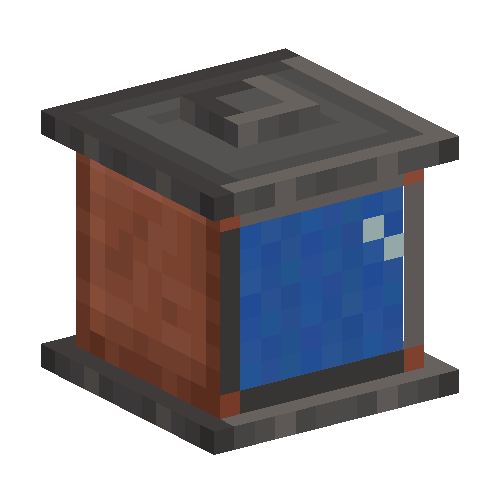
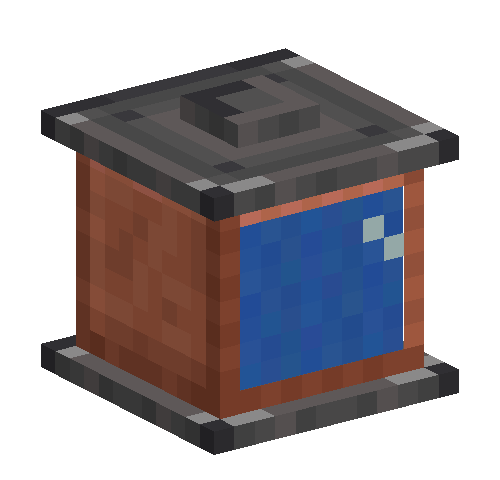
Use copper window framing and industrial iron plate details

diff --git a/docs/fluid-canister.md b/docs/fluid-canister.md
@@ -4,7 +4,7 @@
 
 主体采用四个简单长方体：铜色罐身、底沿、上盖和密封盖。正面保留一像素边框，框内全部为玻璃观察窗（宽 8、高 7 模型单位，X 4–12、Y 2–9），不再使用液滴轮廓。同一行相邻面合并，避免逐像素堆砌方块。模型边界保持为 X/Z 2–14、Y 0–12，沿用原来的 12×12 包裹尺寸和原生吊索。容量仍为 4000 mB，通过流体打包机卸液。
 
-贴图为原创的 16×16 像素图。使用 pixel-art 技能逐像素绘制，参考本地 Create 6.0.10-280 的铜机壳与流体储罐贴图，采用完整八级铜色、五级中性框架色，以及窗内暗色和玻璃高光，共十五色。重画铜面像素簇、包边接缝和磨损明暗，避免大块平涂。UV 保持一个模型单位对应一个纹理像素，不使用渐变或抗锯齿。
+贴图为原创的 16×16 像素图。使用 pixel-art 技能逐像素绘制，参考本地 Create 6.0.10-280 的铜机壳、流体储罐与工业铁块贴图，采用八级铜色、六级工业铁灰色，以及窗内暗色和玻璃高光，共十六色。观察窗边框完全使用铜色；上下端板参考工业铁块的折边接缝、内凹加强纹和四角铆接，重新绘制像素布局。铜面保留像素簇和磨损明暗。UV 保持一个模型单位对应一个纹理像素，不使用渐变或抗锯齿。
 
 观察窗采用几何开孔、内侧暗色背板和像素玻璃反光。透明部分不绘制面，玻璃没有大块半透明覆盖层，因此适配原生包裹的 solid、cutout 和 Flywheel 实例化路径，不需要更改全局渲染层。
 
@@ -13,5 +13,7 @@
 物品覆盖模型负责手持、物品栏、传送带及打包机显示；客户端限定的六个小型 Mixin 仅适配原生掉落包裹、锁链、蛙港的模型查找，包含普通渲染和 Flywheel 路径。运输动画、摆动、吊索、光照与物流数据不变。外观缓存按纹理、颜色和液位复用，资源重载时重建；渲染专用键只用于客户端模型表，不写入物品或世界数据。独立 partial 不加入 Flywheel 的资源文件注册表。移液臂的独立载液袋不在本次修改范围内。
 
 `tools/create-fluid-canister.cjs` 使用 Node.js 与 sharp 生成模型、像素贴图及离线预览，参数为解压的 Create 源码根目录。`outputs/fluid-canister/preview.png` 展示三个视角；`textures-source.png` 为原尺寸贴图拼图，`textures.png` 为最近邻放大的像素对照，顺序见 `model.meta.json`。
+
+`outputs/fluid-canister/top-bottom.png` 额外展示顶部和底部端板的实际模型离线视角。
 
 本次仅进行静态资源检查与离线模型渲染，未构建或启动游戏。离线预览中的蓝色流体为示意，不是运行时水纹理截图；游戏中读取实际流体。离线预览不包含游戏内环境光遮蔽和光影效果。
